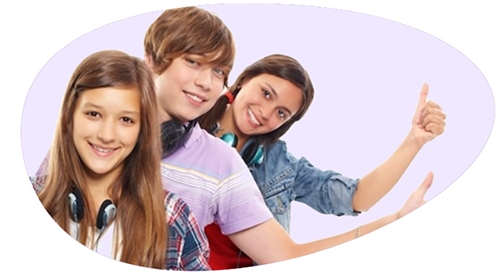
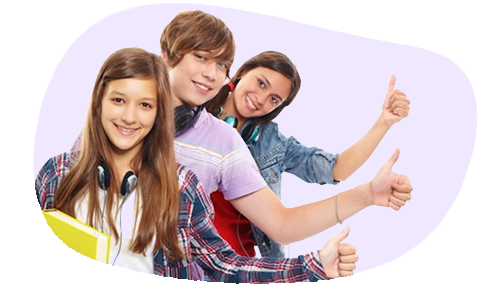
maj

diff --git a/templates/setup/academy_index.html b/templates/setup/academy_index.html
@@ -63,7 +63,7 @@ Intro Section -
         <div class="col-xs-12 col-md-6" >
 
 
-
+            <img src="{% static 'img/tableau_academy_accueil.jpg' %}"/> 
             {% comment %}
             Après plusieurs années à peaufiner nos cours, partager nos ressources, nous avons construit des outils utilisés par des centaines d'enseignants, des milliers d'élèves avec des retours positifs et des progrès reconnus. Nous avons décidé d'ouvrir l'académie SACADO pour que les élèves puissent à leur rythme retravailler les exercices issus des compétences du 
             Ministère de l'Éducation Nationale, en autonomie ou accompagné par des enseignants titulaires de l'Éducation Nationale.
